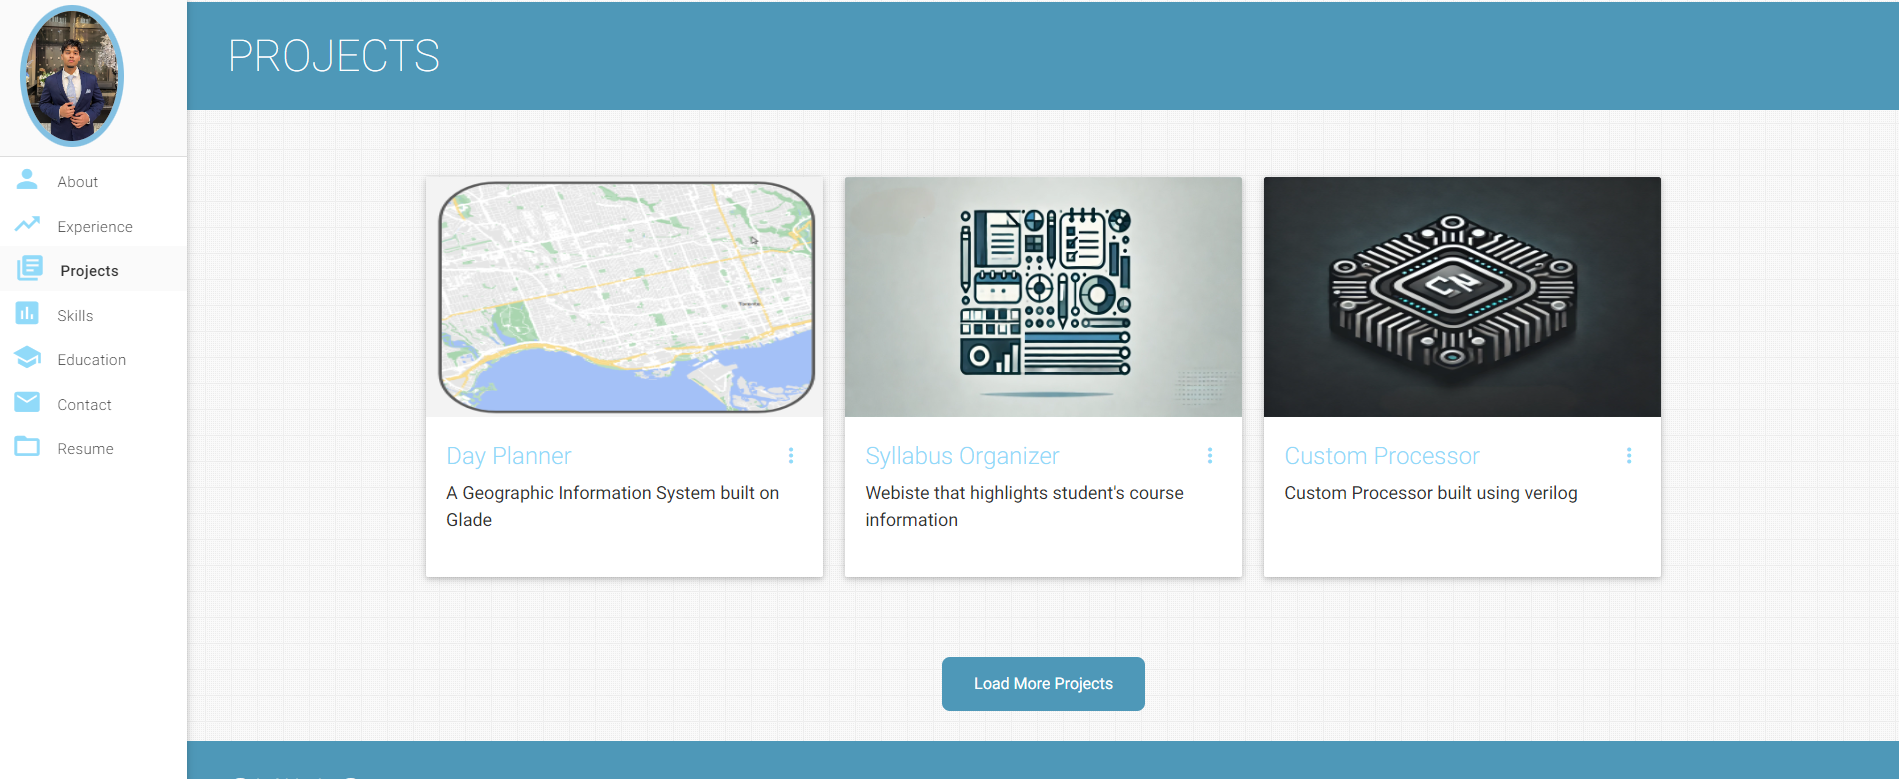
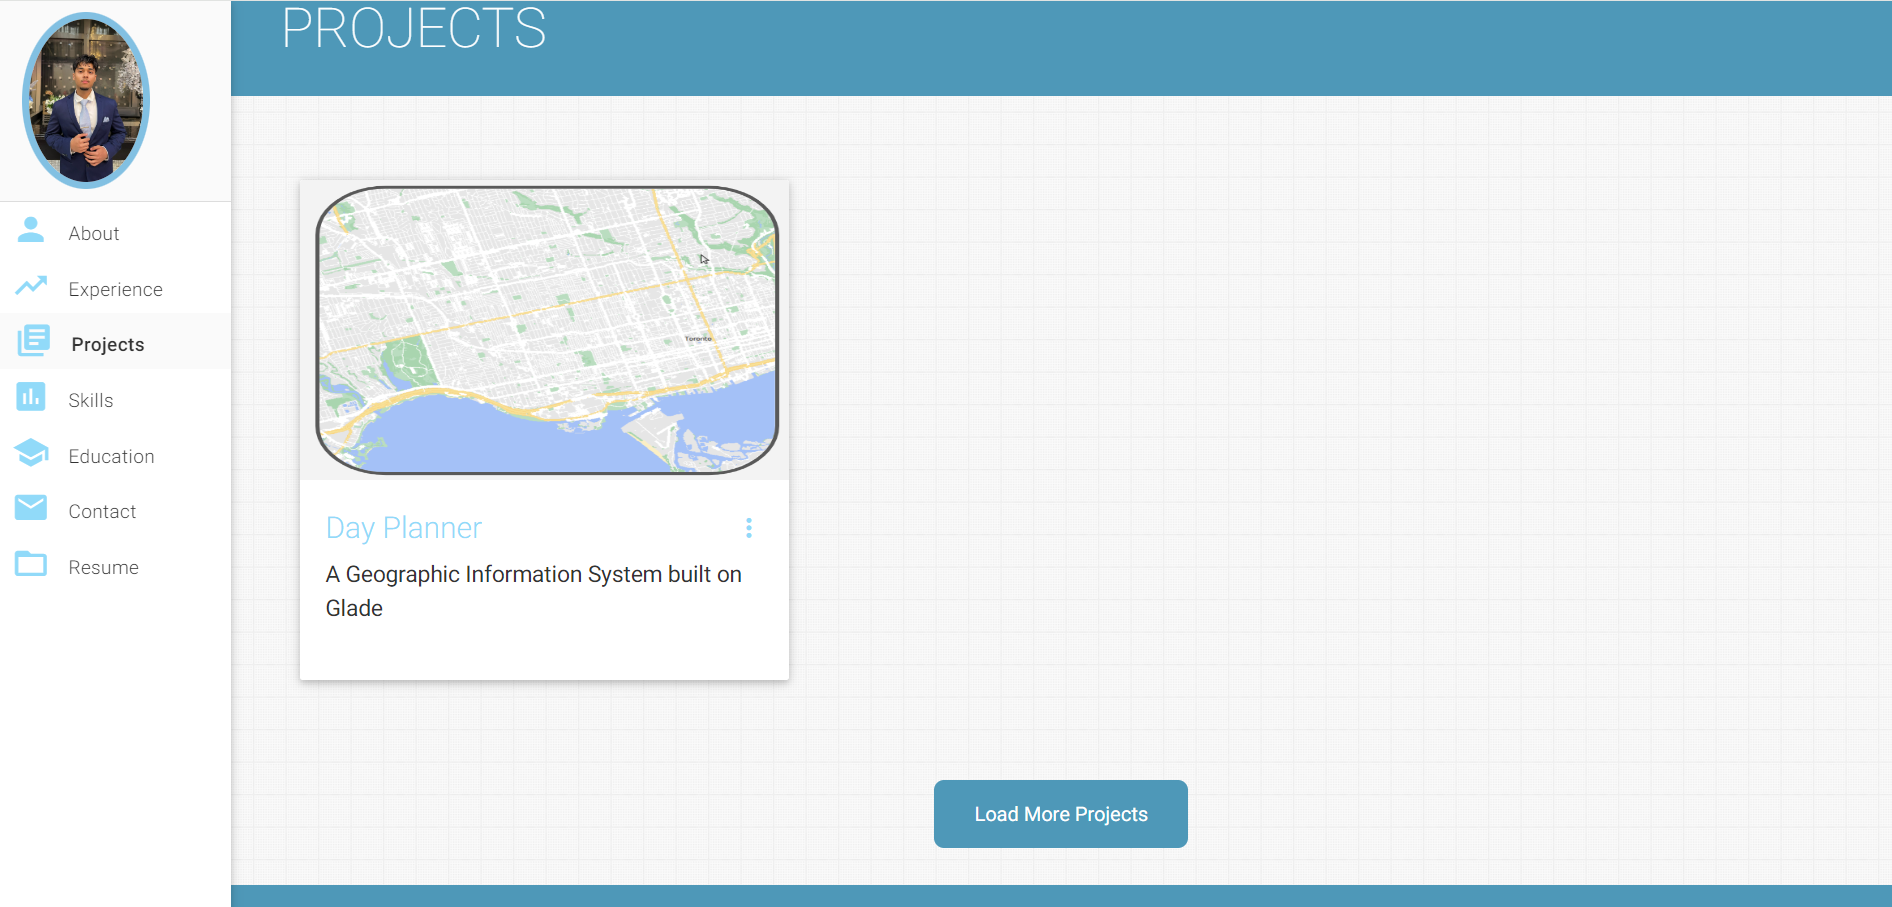
Added sorting by date feature
Projects are now sorted by date

diff --git a/index.js b/index.js
@@ -1,5 +1,6 @@
 let numProjShown=0;
 const projects=[{
+    date: "2024-04-01",
     title: "Day Planner",
     image: "/assets/img/dayplannerpic.png",
     altImage: "Geographic Information System",
@@ -12,6 +13,7 @@ const projects=[{
     ]
 },
 {
+    date: "2024-01-01",
     title: "Syllabus Organizer",
     image: "/assets/img/syllabusorganizer.png",
     altImage: "syllabus organizer",
@@ -23,6 +25,7 @@ const projects=[{
     ]
 },
 {
+    date: "2024-03-01",
     title: "Custom Processor",
     image: "/assets/img/customproccesor.png",
     altImage: "Custom Processor",
@@ -34,6 +37,7 @@ const projects=[{
     ]
 },
 {
+    date: "2022-03-01",
     title: "Reversi",
     image: "/assets/img/reversi.png",
     altImage: "Reversi",
@@ -44,6 +48,7 @@ const projects=[{
     ]
 },
 {
+    date: "2024-03-01",
     title: "Block Breaker Game",
     image: "/assets/img/blockbreaker.png",
     altImage: "blockbreaker",
@@ -54,6 +59,8 @@ const projects=[{
     ]
 }
 ];
+
+projects.sort((a, b) => new Date(b.date) - new Date(a.date));
 
 function displayProjects(showProject){
     const projectDisplay = document.getElementById("recentprojects");
@@ -94,8 +101,8 @@ function displayProjects(showProject){
 
 function intialProjects(){
 displayProjects(projects[0]);
-displayProjects(projects[1]);
-displayProjects(projects[2]);
+//displayProjects(projects[1]);
+//displayProjects(projects[2]);
 document.getElementById("showLessProjects").style.display = "none";
 document.getElementById("loadMoreProjects").style.display = "inline-block";
 }
